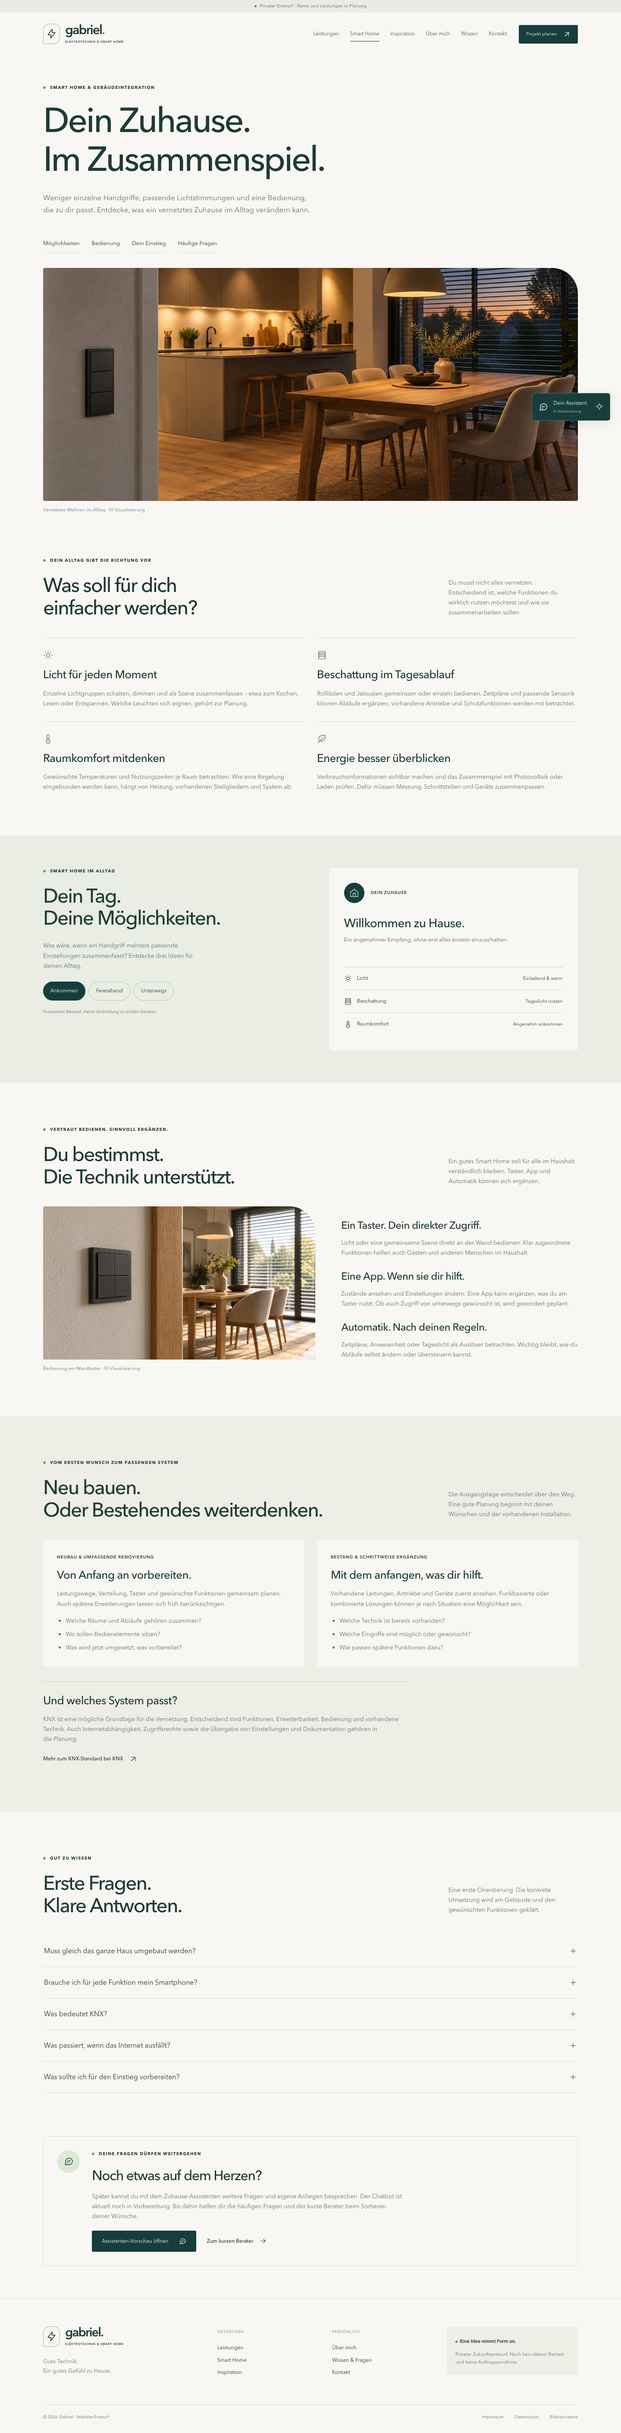
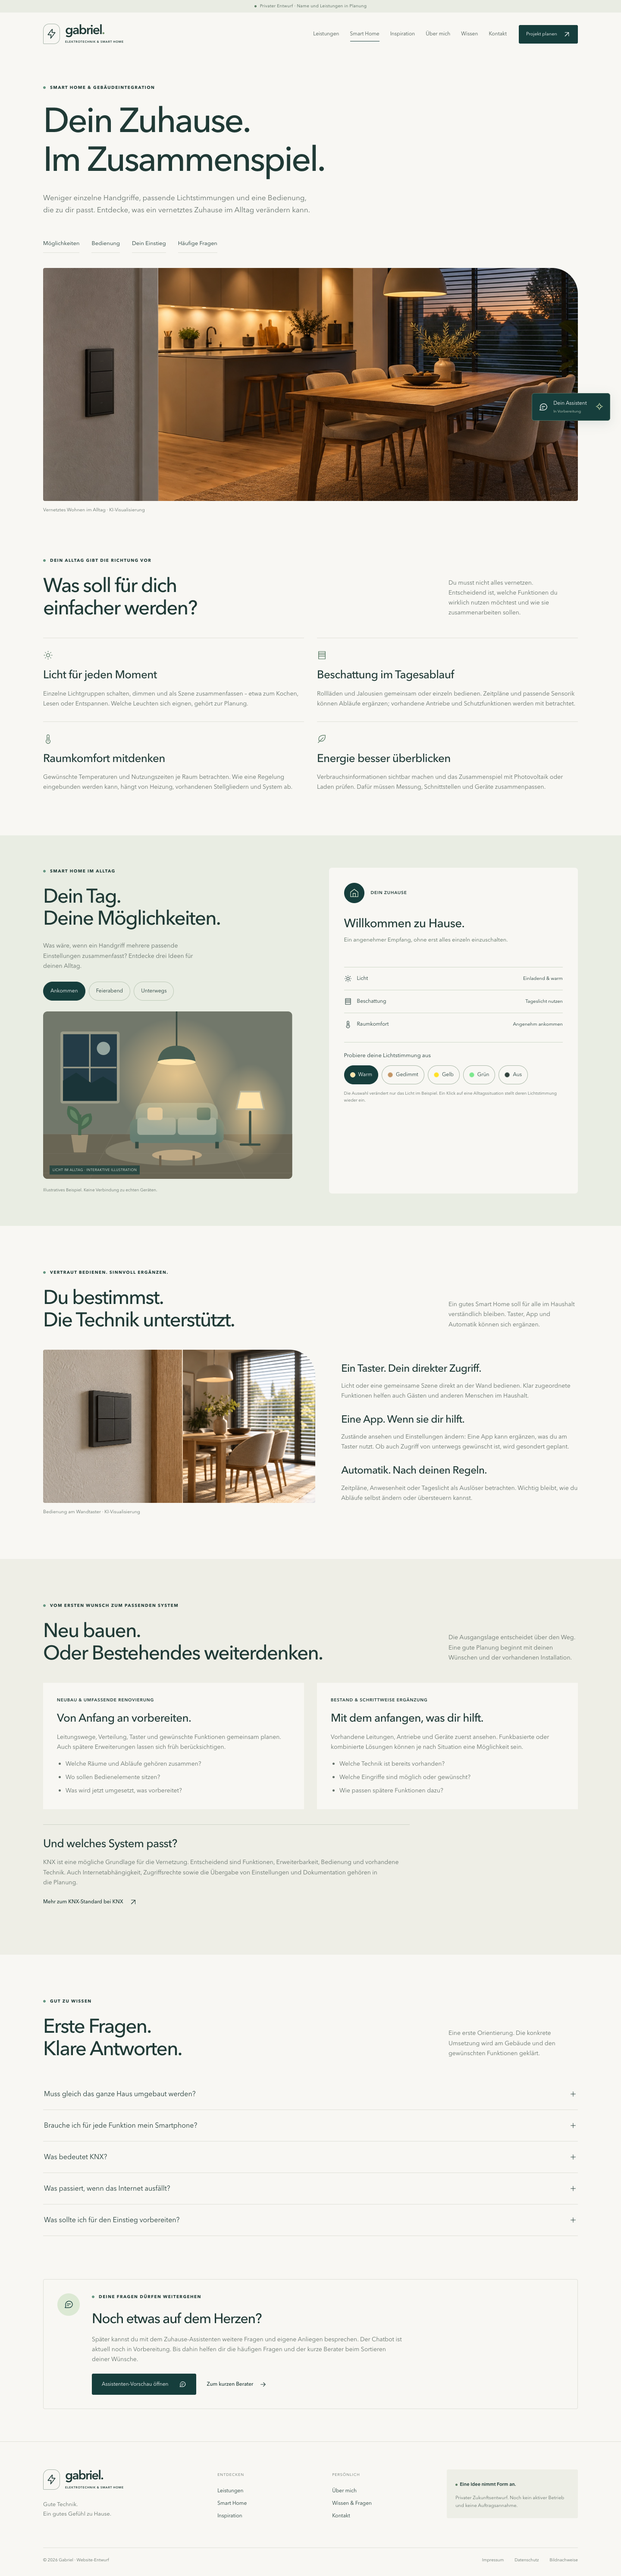
Interaktive Raumansicht mit Szenen und Lichtfarben ergaenzen

diff --git a/public/assets/styles.css b/public/assets/styles.css
@@ -1080,6 +1080,26 @@
 }
 
 @layer components {
+  .light-room { --lamp-color:#ffd694; --lamp-surface:#ffe3a9; --room-wall:#72786b; --room-floor:#696554; margin-top:25px; position:relative; border-radius:10px; overflow:hidden; }
+  .light-room[data-light="dim"] { --lamp-color:#f8b968; --lamp-surface:#dcb17c; --room-wall:#39463e; --room-floor:#3d4237; }
+  .light-room[data-light="yellow"] { --lamp-color:#ffe027; --lamp-surface:#ffeb78; --room-wall:#777650; --room-floor:#6a6440; }
+  .light-room[data-light="green"] { --lamp-color:#7de78e; --lamp-surface:#adf3b4; --room-wall:#436553; --room-floor:#435d44; }
+  .light-room[data-light="off"] { --lamp-color:#000; --lamp-surface:#858a79; --room-wall:#273b3e; --room-floor:#303e3a; }
+  .light-room svg { width:100%; height:auto; }
+  .light-room svg * { transition:fill .45s, opacity .45s; }
+  .room-light-pools { opacity:1; transition:opacity .45s; }
+  [data-light="dim"] .room-light-pools { opacity:.4; }
+  [data-light="off"] .room-light-pools { opacity:0; }
+  .room-caption { position:absolute; left:15px; bottom:10px; font-size:8px; letter-spacing:.06em; color:#f5f4e9; background:#163e3cbb; padding:4px 7px; }
+  .light-controls { border-top:1px solid #cdd8c7; padding-top:20px; margin-top:15px; }
+  .light-control-label { font-size:13px; margin-bottom:12px; }
+  .light-options { display:flex; flex-wrap:wrap; gap:8px; }
+  .light-options button { display:flex; align-items:center; gap:7px; border:1px solid #a7b6a5; border-radius:25px; background:transparent; padding:10px 13px; min-height:44px; font-size:12px; }
+  .light-options button[aria-pressed="true"] { border-color:var(--petrol); background:var(--petrol); color:white; }
+  .light-swatch { width:12px; height:12px; border-radius:50%; border:1px solid #ffffff70; }
+  .light-swatch.warm { background:#ffe3a9; } .light-swatch.dim { background:#c39565; } .light-swatch.yellow { background:#ffe027; } .light-swatch.green { background:#7de78e; } .light-swatch.off { background:#30413b; }
+  .light-manual-note { color:var(--muted); font-size:10px; margin-top:13px; }
+  html:not(.js) .light-controls { display:none; }
   .smart-jump-links { display:flex; flex-wrap:wrap; gap:12px 28px; margin-top:-15px; margin-bottom:35px; font-size:13px; }
   .smart-jump-links a { padding-block:10px; border-bottom:1px solid var(--line); }
   .smart-function-grid, .smart-entry-grid { display:grid; grid-template-columns:1fr 1fr; gap:30px; }

diff --git a/public/assets/app.js b/public/assets/app.js
@@ -90,9 +90,26 @@ faqSearch?.addEventListener("input", () => {
 const sceneData = document.querySelector("#scene-data");
 if (sceneData) {
   const scenes = JSON.parse(sceneData.textContent);
+  const room = document.querySelector(".light-room");
+  const mobileRoom = window.matchMedia("(max-width: 680px)");
+  function positionRoom() {
+    if (mobileRoom.matches) document.querySelector(".light-controls").before(room);
+    else document.querySelector(".scene-intro small").before(room);
+  }
+  positionRoom();
+  mobileRoom.addEventListener("change", positionRoom);
+  const lightLabels = { warm: "Einladend & warm", dim: "Warm & gedimmt", yellow: "Gelbes Licht", green: "Grünes Licht", off: "Gewählte Lichter aus" };
+  function setLight(mode) {
+    room.dataset.light = mode;
+    room.setAttribute("aria-label", "Wohnraum mit zwei Lampen: " + lightLabels[mode]);
+    document.querySelector("[data-scene-light]").textContent = lightLabels[mode];
+    document.querySelectorAll("[data-light-choice]").forEach((choice) => choice.setAttribute("aria-pressed", String(choice.dataset.lightChoice === mode)));
+  }
+  document.querySelectorAll("[data-light-choice]").forEach((choice) => choice.addEventListener("click", () => setLight(choice.dataset.lightChoice)));
   for (const button of document.querySelectorAll("[data-scene]")) {
     button.addEventListener("click", () => {
       const scene = scenes[button.dataset.scene];
+      setLight({ ankommen: "warm", feierabend: "dim", unterwegs: "off" }[button.dataset.scene]);
       for (const tab of document.querySelectorAll("[data-scene]"))
         tab.setAttribute("aria-pressed", String(tab === button));
       for (const key of ["title", "text", "light", "blinds", "heating"])

diff --git a/docs/PROJEKTSTAND.md b/docs/PROJEKTSTAND.md
@@ -1,8 +1,12 @@
 # Projektstand
 
-Stand: 29.10.2026 · Smart-Home-Seite erweitert
+Stand: 29.10.2026 · interaktive Lichtsimulation ergänzt
 
 ## Aktueller Stand
+
+- Gabriels Lichtidee umgesetzt: eigener illustrierter Wohnraum mit Pendel- und Stehleuchte. Ankommen setzt warmes Licht, Feierabend gedimmtes Licht und Unterwegs ausgeschaltetes Licht. Rechts sind Warm, Gedimmt, Gelb, Grün und Aus direkt wählbar. Raumhintergrund, Leuchtflächen, Lichtkegel und Lichtbeschreibung wechseln gemeinsam. Ein Szenenwechsel setzt eine manuelle Lichtwahl zurück.
+- Umsetzung als skalierbare SVG-/CSS-Illustration in `src/room.mjs`, ohne neue Bilddateien oder Geräteanbindung. Bedienelemente mit Tastatur und sichtbarem Auswahlzustand; bei reduzierter Bewegung ohne Übergangsanimation. Ohne JavaScript bleibt die statische warme Illustration sichtbar. Themenbranch: `feat/smart-home-lichtsimulation`, abgeleitet von `feat/smart-home-details` (Commit `8ddc091`).
+
 
 - Smart Home auf Gabriels Wunsch erweitert: zwei neue eigene Bildmotive, vier Funktionsbereiche, Taster/App/Automatik, Bestand und Neubau, KNX-Einordnung, fünf aufklappbare Antworten und ein abschließender Hinweis mit Button zur Assistenten-Vorschau. Keine aktive Chatbot-Anbindung behauptet.
 - Neue Umsetzung: `src/smart-home.mjs`; Bilddateien, Prompts und fachliche Quellen: [SMART-HOME-BILDER.md](SMART-HOME-BILDER.md). Themenbranch: `feat/smart-home-details`, abgeleitet von `feat/inspiration-berater` (Commit `a33994a`).

diff --git a/README.md b/README.md
@@ -14,7 +14,7 @@ Website für Gabriels mögliche spätere Selbstständigkeit im Bereich Elektrote
 Der erste lokale Entwurf ist umgesetzt: helle Gestaltung mit Petrol, echte Unterseiten, mobile Navigation und kurze Inhalte für Privatkunden.
 
 - Startseite, Leistungsübersicht und sechs Leistungsunterseiten: Neubau, Modernisierung, Licht, Smart Home, Photovoltaik sowie Energie und Laden.
-- Erweiterte Smart-Home-Seite mit eigenen Bildern, Funktionsübersicht, Bedienung, Einstieg im Bestand oder Neubau, fünf Antworten und Assistentenhinweis. Drei interaktive Alltagssituationen bleiben erhalten.
+- Erweiterte Smart-Home-Seite mit eigenen Bildern, Funktionsübersicht, Bedienung, Einstieg im Bestand oder Neubau, fünf Antworten und Assistentenhinweis. Drei interaktive Alltagssituationen steuern eine illustrierte Raumansicht mit zwei Lampen. Warm, gedimmt, Gelb, Grün und Aus lassen sich zusätzlich direkt ausprobieren.
 - Inspiration mit vier eigenen Alltagsszenen: Orientierungslicht, Morgenroutine, Arbeits- und Wohnlicht sowie Energieüberblick.
 - Kurzer Berater mit fünf Fragen, begründeten Ansätzen und bearbeitbarer Übergabe in den Projektplaner.
 - Über mich, Kontakt sowie durchsuchbare häufige Fragen.
